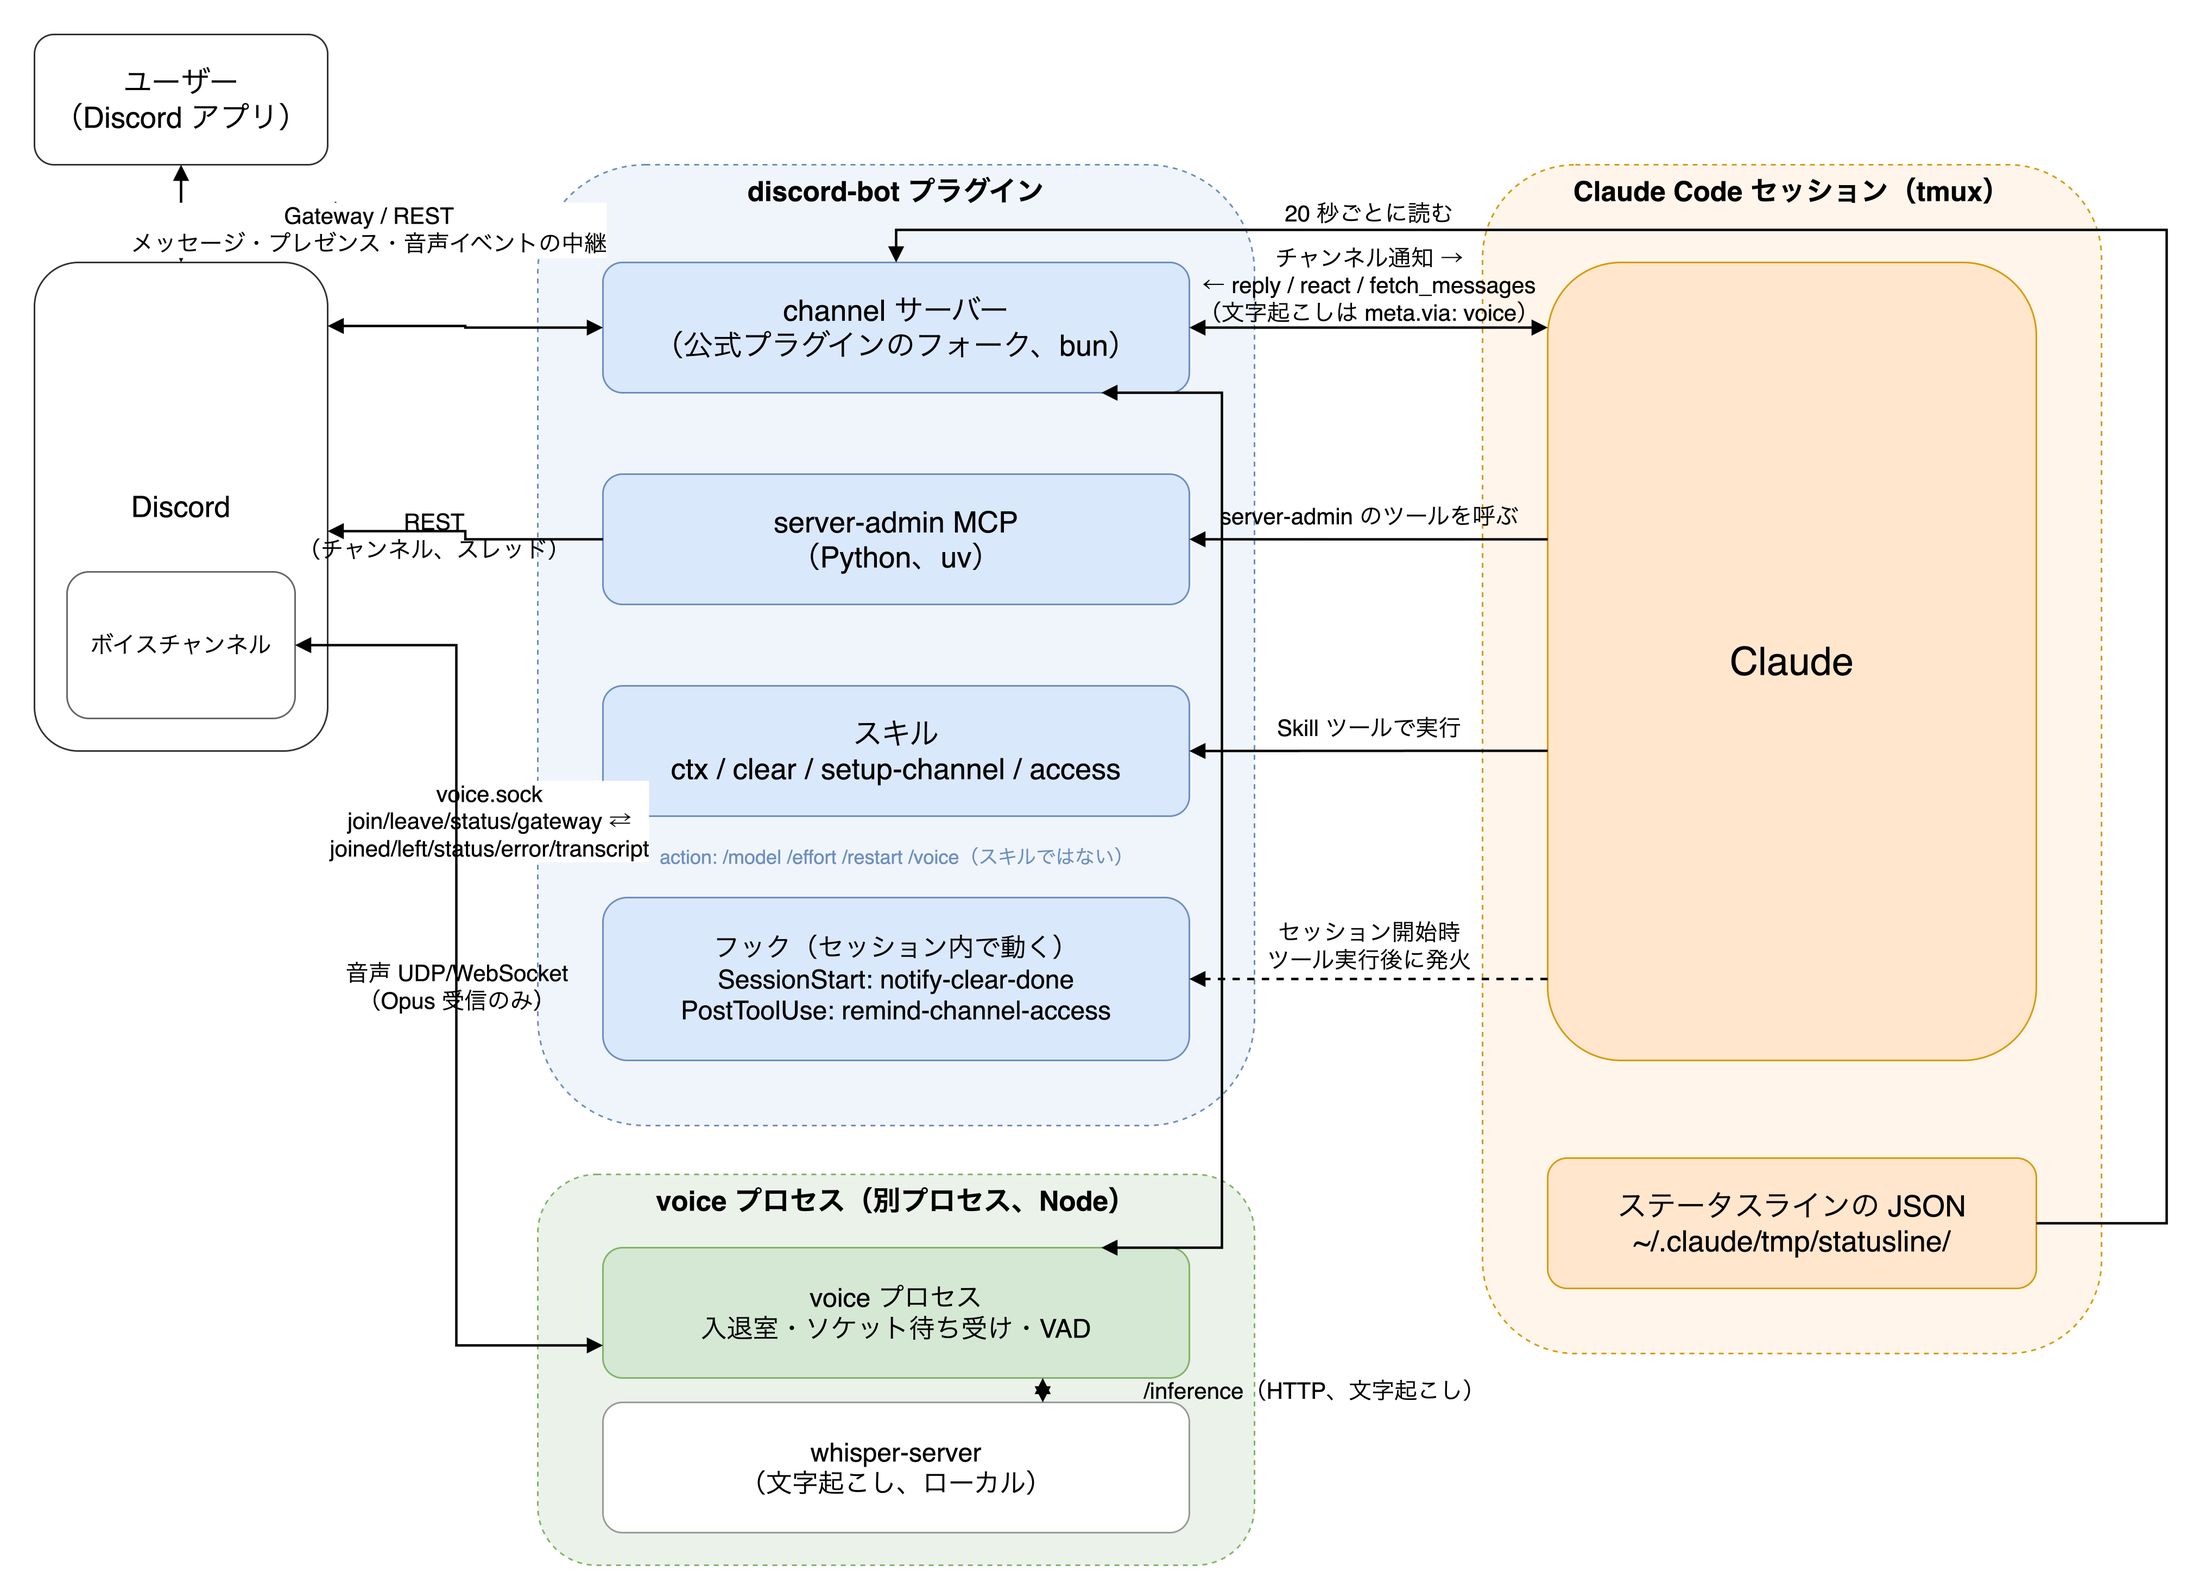
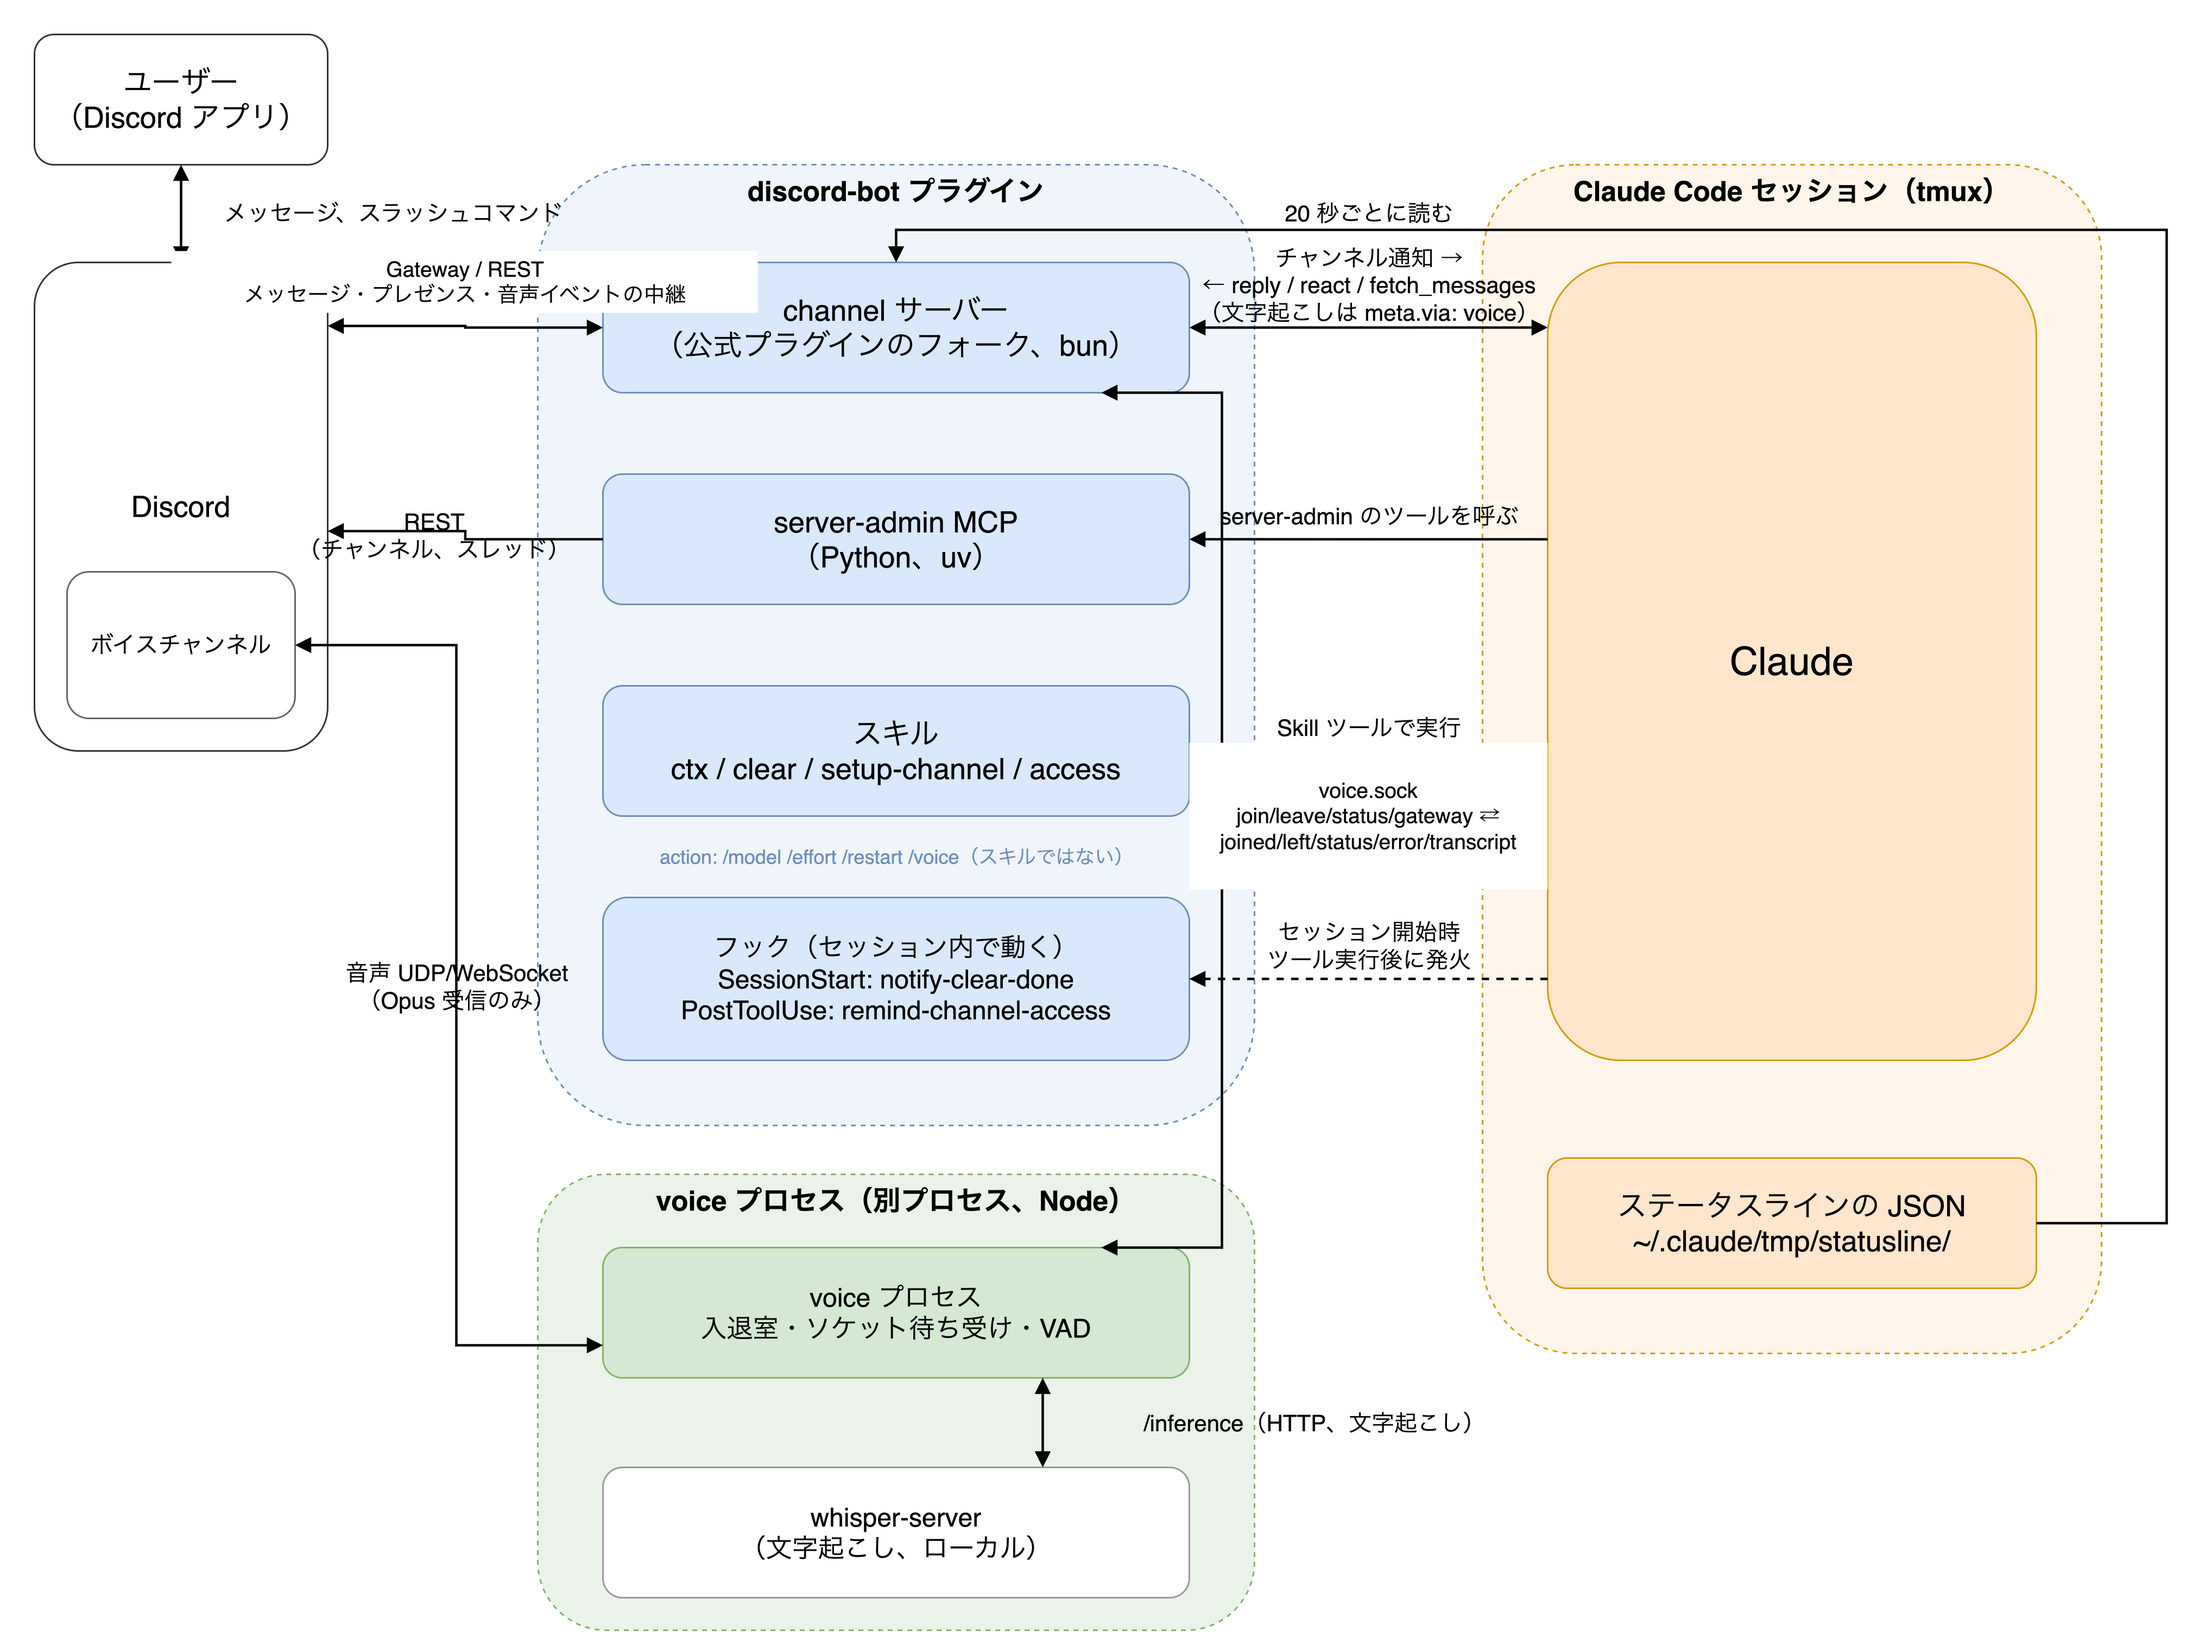
図のラベル最終調整と#73の記述更新

diff --git a/docs/verify-voice.md b/docs/verify-voice.md
@@ -46,8 +46,9 @@ DISCORD_BOT_CHANNEL_MODE=fork discord-start
 
 - [ ] 本人にだけ見える形で「〇〇に入りました。喋った内容は〇〇のテキストチャットに返します。」が返る
 - [ ] Bot がボイスチャンネルに参加する（Discord アプリのメンバー一覧に Bot が出る）
-- [ ] 失敗する場合は `~/.claude/discord-bot/voice.log` を確認する（`READY_TIMEOUT_MS`＝20 秒で失敗するのは
-  #73 で追跡中の既知の間欠症状。1 回失敗しても、もう一度 `/voice join` を打てば通ることが多い）
+- [ ] 失敗する場合は `~/.claude/discord-bot/voice.log` の `stateChange` ログでどの段階で止まったかを確認する。
+  `Ready` に到達しない場合は `voice.json` の `voice.readyTimeoutS`（既定 8 秒）で 1 回だけ自動的に接続をやり直す
+  （合計最大 16 秒。#73）。それでも失敗したら、もう一度 `/voice join` を打つ
 
 ## 5. 発話して文字起こしを確認する
 
@@ -94,7 +95,8 @@ tmux kill-session -t voice-verify
 - 3.8 秒の発話が発言どおりに文字になった
 - 1 秒未満の短い発話も正しく拾えた（`minSpeechMs` 未満のノイズとして捨てられず、意味のある発話として認識された）
 - 1 回目の `/voice join` が `VoiceConnectionStatus.Ready` に到達せず、20 秒で「ボイスチャンネルへの接続に
-  失敗しました」になった。同じ環境で成功も複数回あり、間欠的な症状（Issue #73 で自動再試行を実装中）
+  失敗しました」になった。同じ環境で成功も複数回あり、間欠的な症状だった（この検証時点では未対応。
+  Issue #73 で自動再試行を実装済み。`readyTimeoutS` による 1 回の再試行で解消する見込み）
 
 ## NG だったときに集めるもの
 

diff --git a/docs/how-it-works.md b/docs/how-it-works.md
@@ -232,7 +232,8 @@ Claude から見たツール名は `mcp__plugin_discord-bot_server-admin__<tool>
   喋り終えてから 2〜3 秒後に文字になる感覚です
 - Discord の音声受信（`@discordjs/voice` でのボイスチャンネル参加・受信）は公式にサポートされた
   領域ではありません。Discord 側の仕様変更で壊れる可能性があります
-- 入室が間欠的に `Ready` に到達せず失敗することがあります（#73 で自動再試行を実装中）
+- 入室が間欠的に `Ready` に到達しないことがあります。`voice.json` の `voice.readyTimeoutS`（既定 8 秒）で
+  1 回だけ自動的に接続をやり直しますが（合計最大 16 秒。#73）、それでも失敗したらもう一度 `/voice join` を打ってください
 
 ## channel プラグインの承認リスト
 
